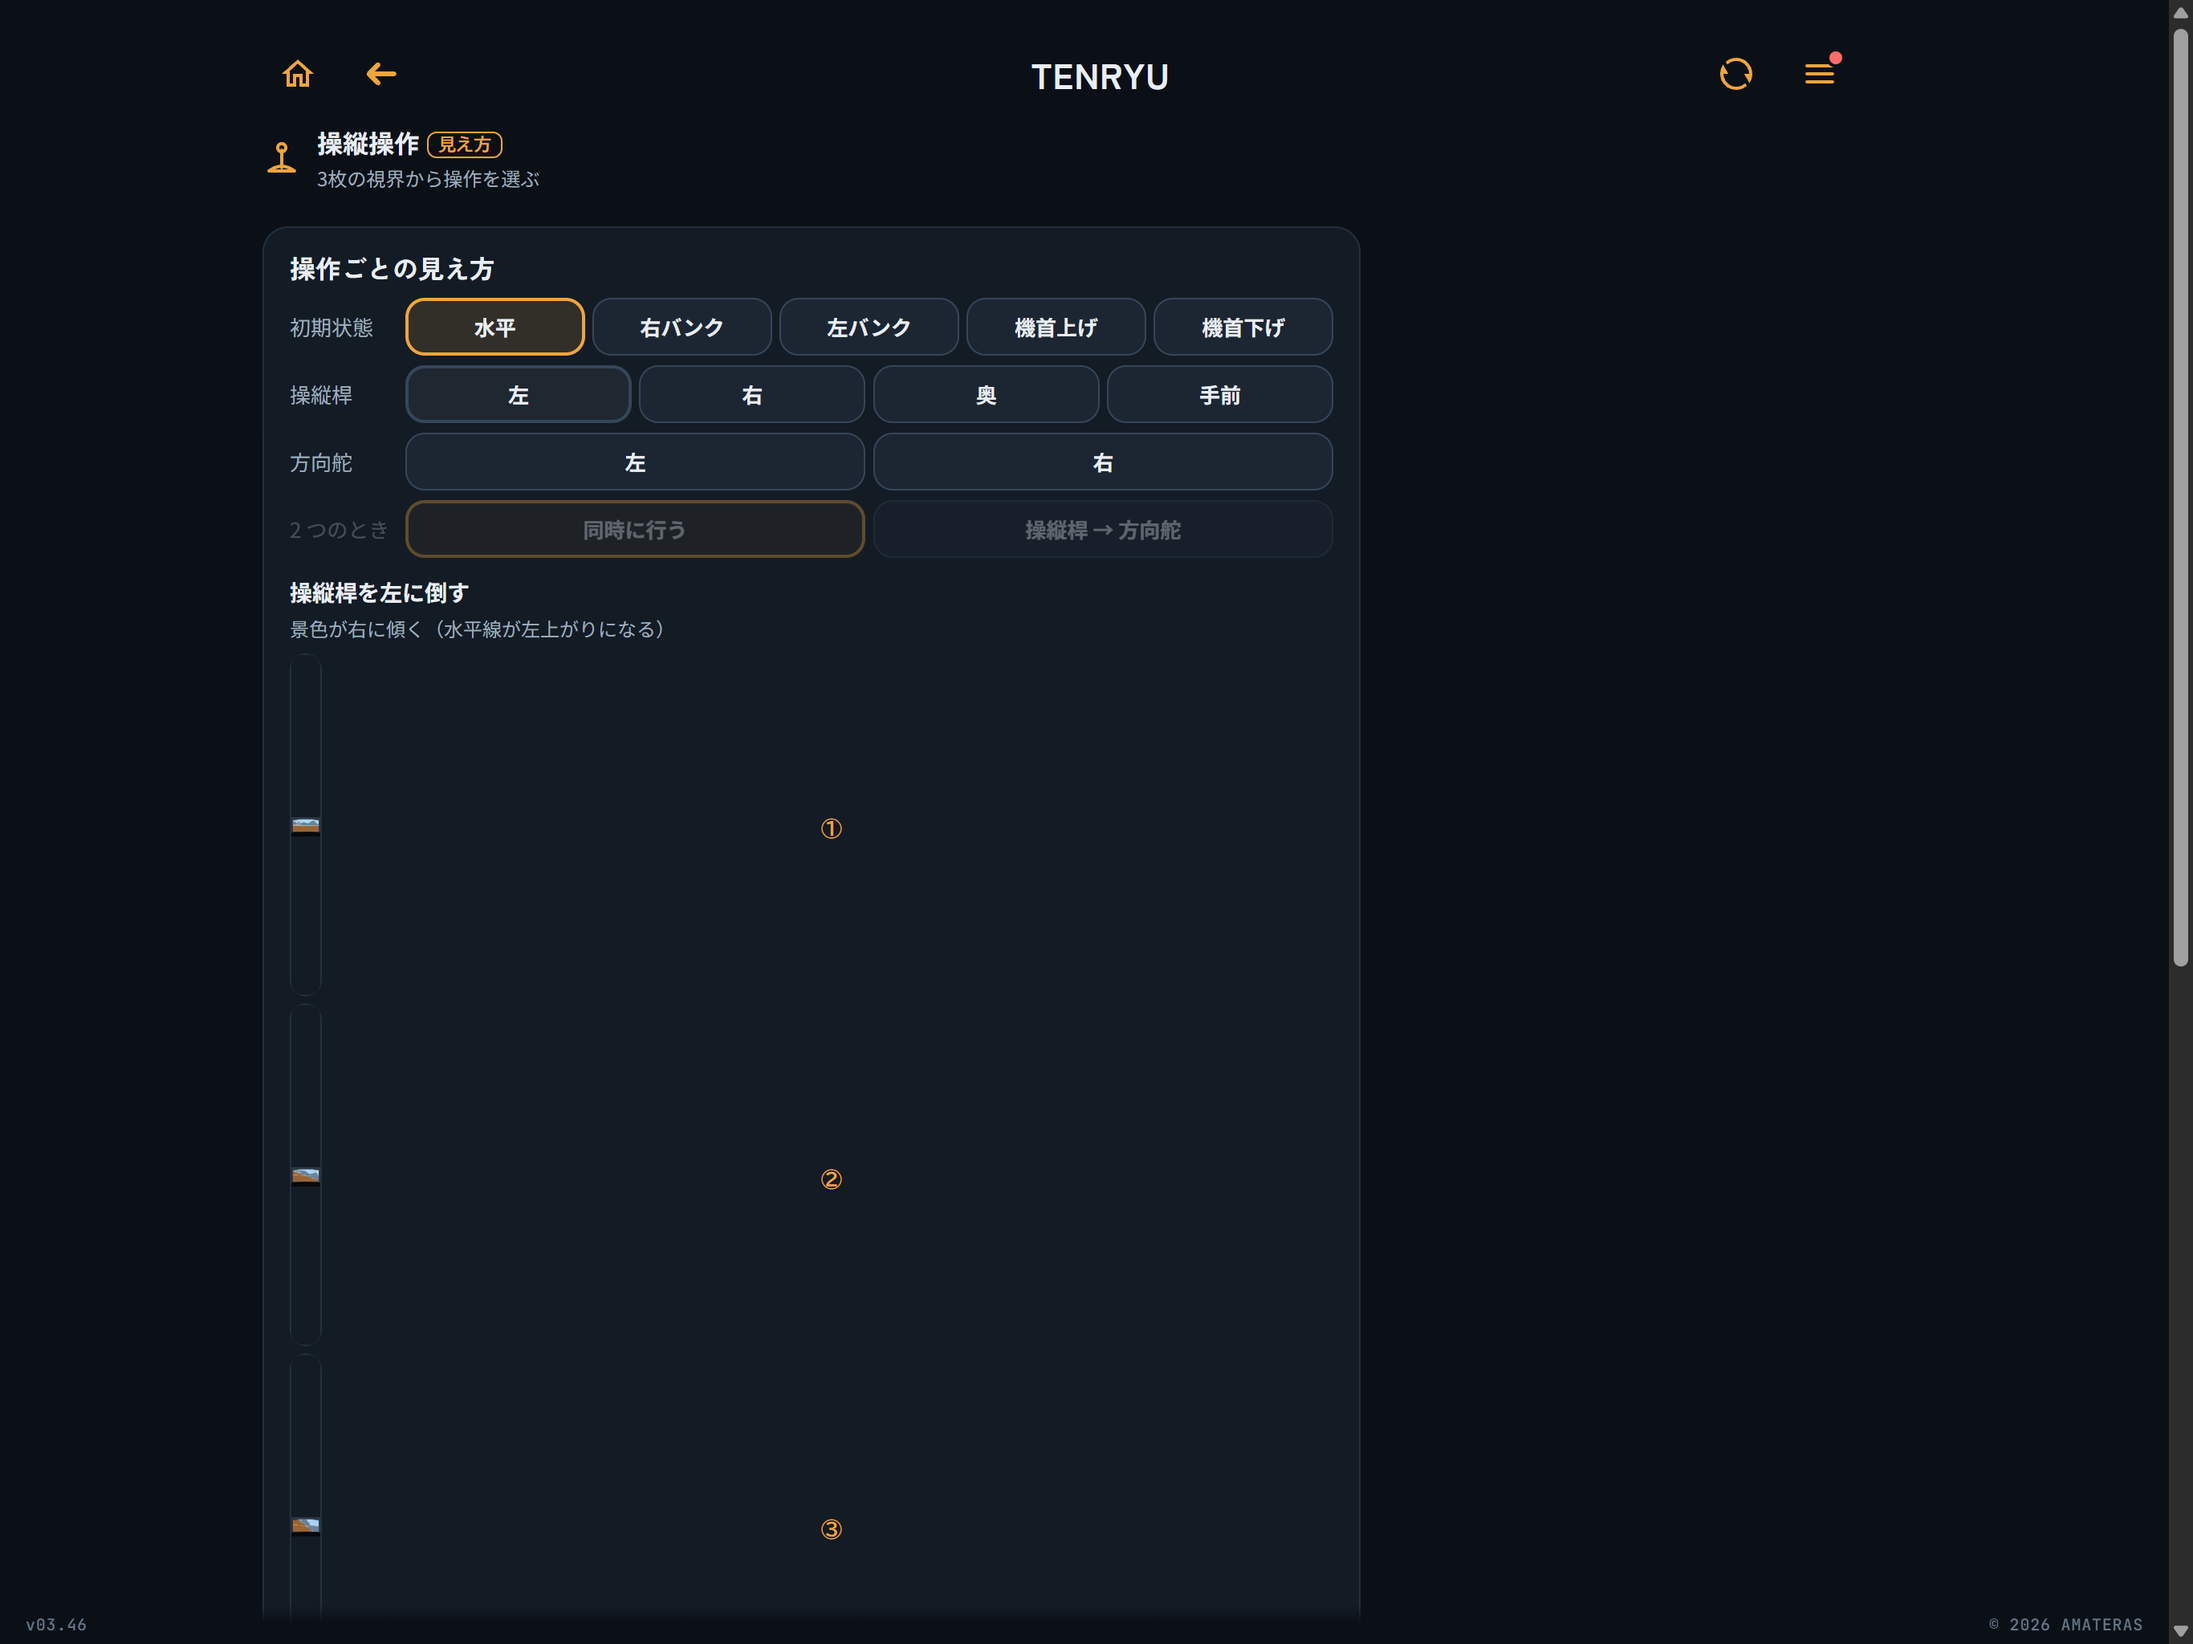
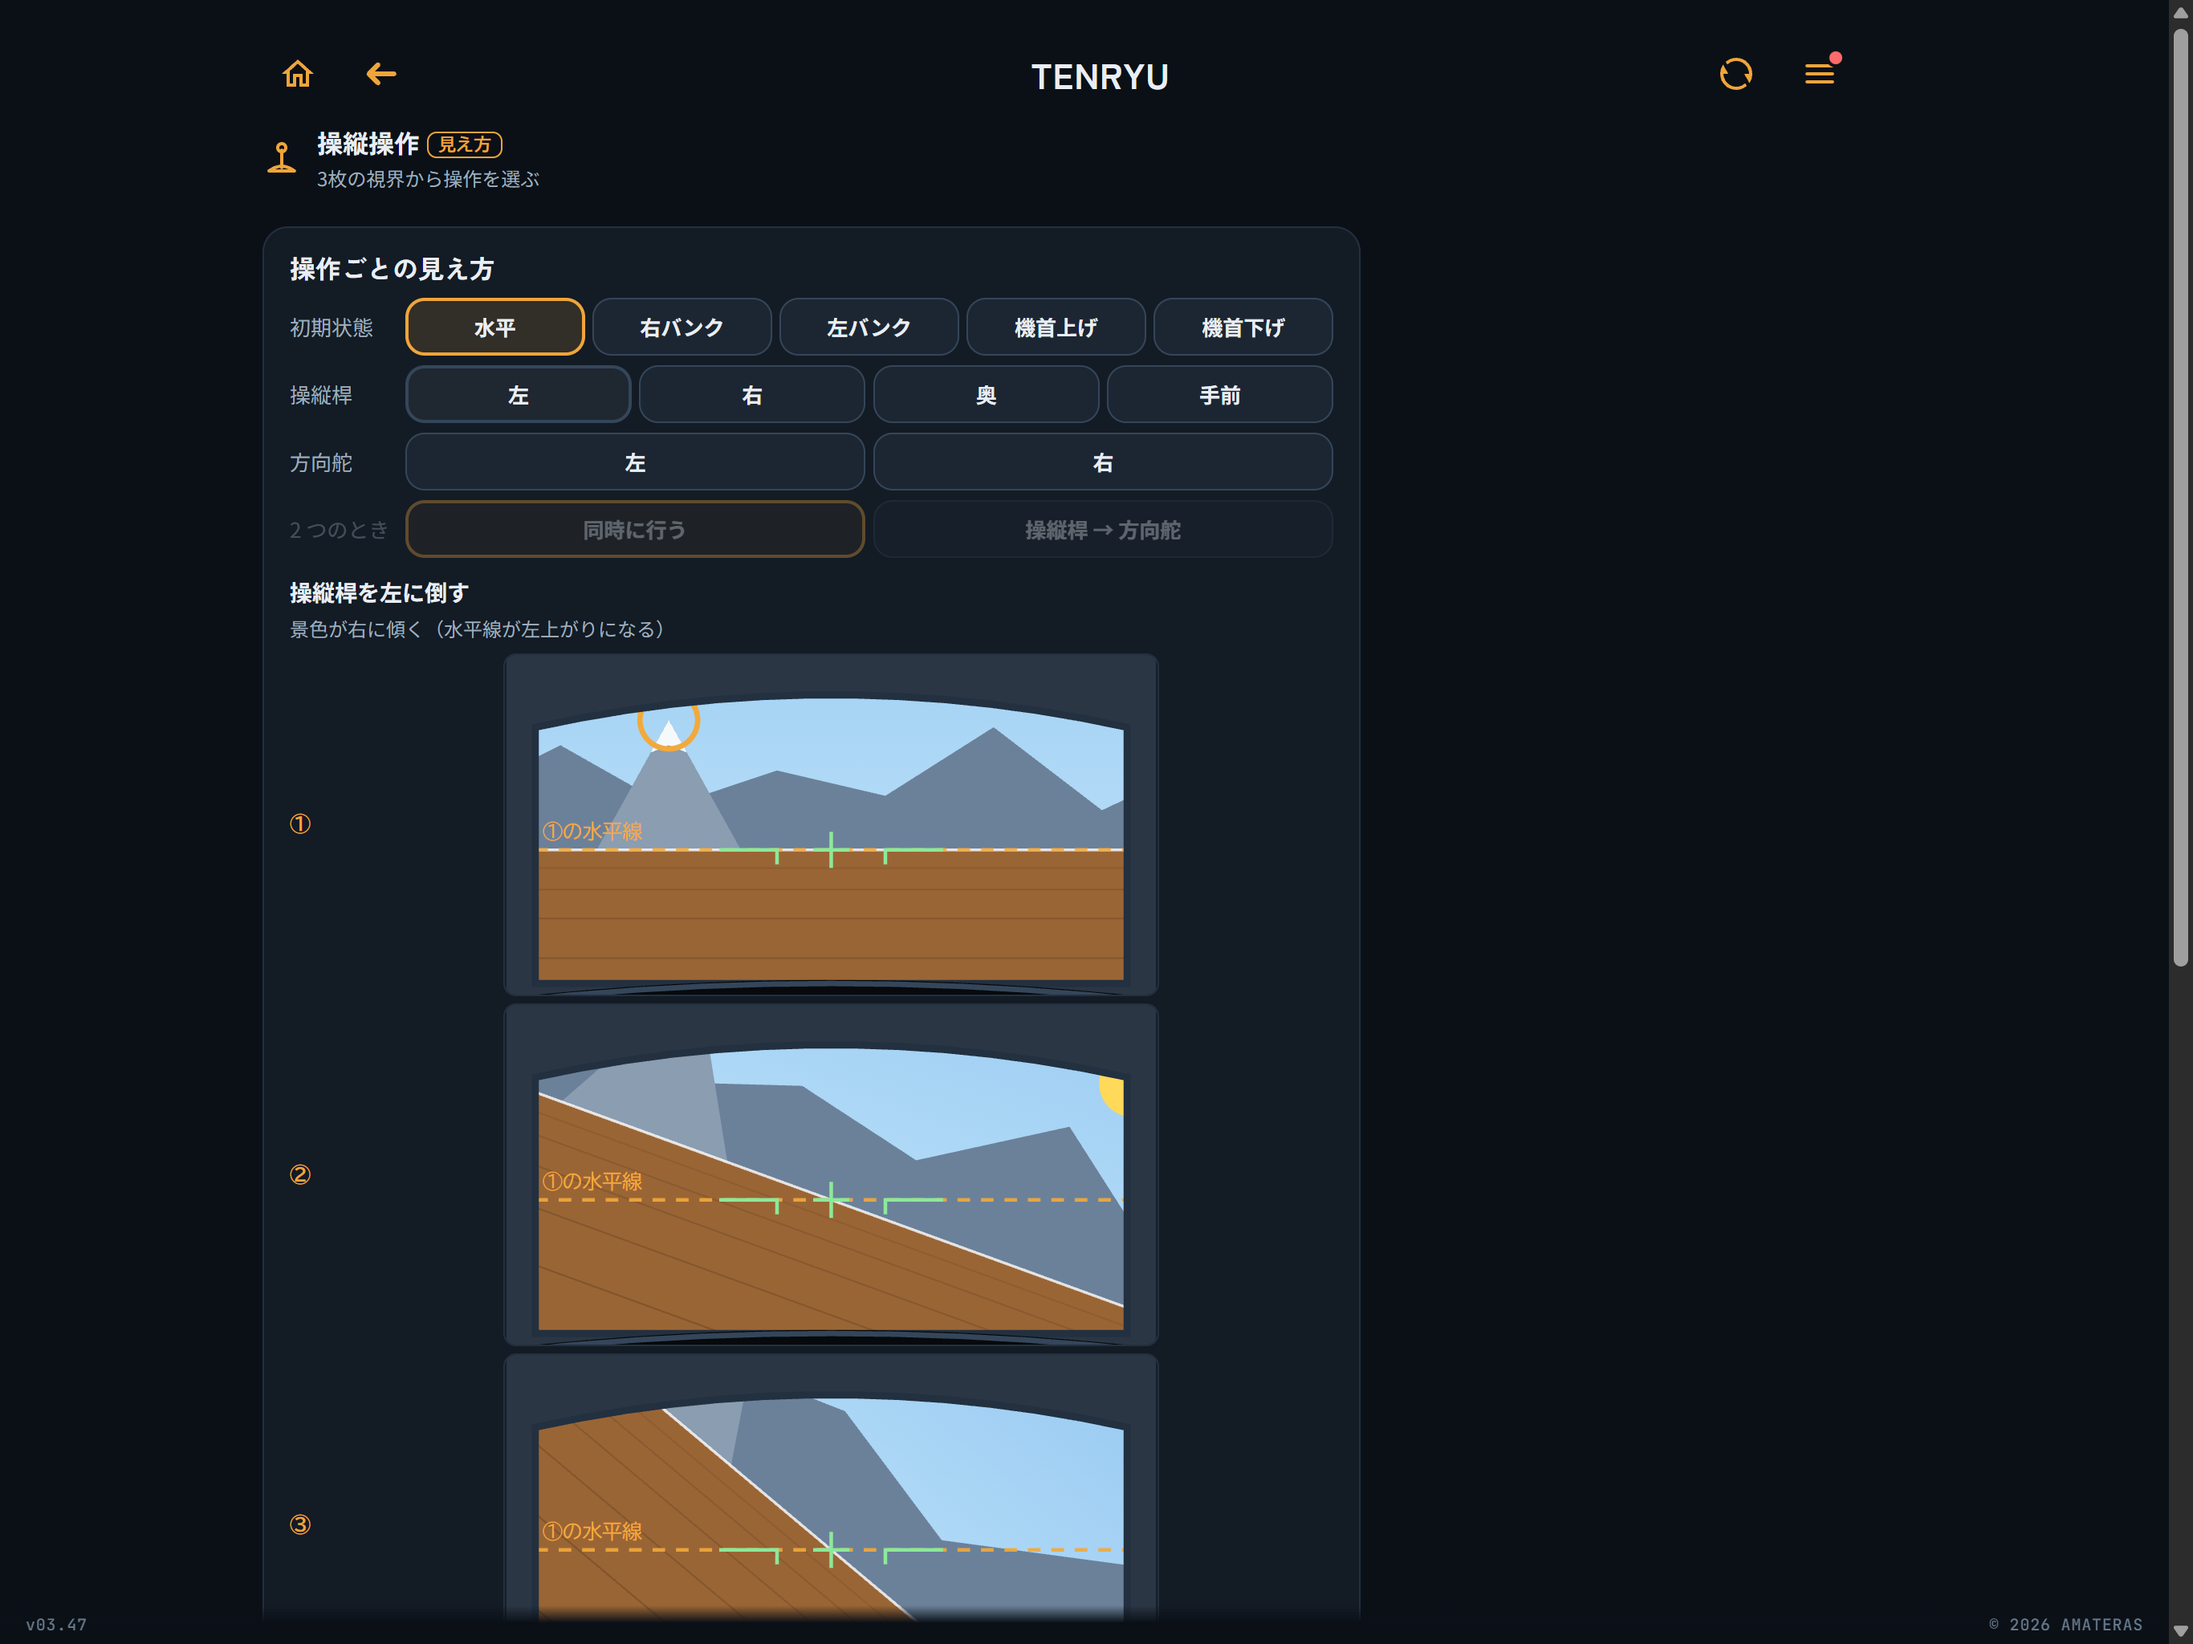
大きなタブレットで見え方の 3 枚が潰れるのを直す（v03.47）
64rem 以上で番号を絵の下に回す規則が見え方にも当たり、
並べ替えのせいで絵が 1.25rem の列に入って 20px になっていた。
iPad のスクリーンショット（3 枚目）も撮り直した。

diff --git a/index.html b/index.html
@@ -708,6 +708,9 @@ body:not([data-view="home"]) .back{display:inline-flex}
   .gallery .frame .v{height:calc((100vh - 24rem)/3);max-height:14rem}
   .frame{grid-template-columns:1fr}
   .frame .n{order:2;text-align:center;margin-top:.375rem;font-size:.8125rem}
+  /* 見え方は 1 列（番号は左、視界は右）。出題と同じ「番号を下」にすると、
+     並べ替えのせいで視界が 1.25rem の列に入って潰れる（大きいタブレットで起きる） */
+  .gallery .frame .n{order:0;text-align:left;margin-top:0}
   .segs{display:grid;grid-template-columns:1fr 1fr;gap:1.25rem}
   .seg{margin-top:1.25rem}
   .ops .ab{min-height:3.5rem}.ops .ab .t{font-size:.75rem}
@@ -972,7 +975,7 @@ const DEMO_ON=false;
 /* ネイティブの包み（Capacitor）で動いているか。アプリ内は常に全機能版で、サービスワーカーは使わない */
 const NATIVE=!!window.Capacitor||/^capacitor:|^ionic:/.test(location.protocol);
 /* 版の表記: 大きい更新で v02 → v03 と上げ、小さい更新は v02.01 → v02.02 と小数側を上げる。sw.js の CACHE と必ずそろえる */
-const APP_VER='v03.46';
+const APP_VER='v03.47';
 let edition=(DEMO_ON&&!NATIVE)?store.get('edition','demo'):'full';
 const isFull=()=>edition==='full';
 const qMax=()=>{const c=MS().qCount;return isFull()?c:(c>0?Math.min(c,DEMO.qCount):DEMO.qCount)};   // 体験版は 10 問まで

diff --git a/sw.js b/sw.js
@@ -1,5 +1,5 @@
 /* オフライン対応サービスワーカー。ファイルを更新したら CACHE の版数を上げる。 */
-const CACHE = 'aat-v03.46';
+const CACHE = 'aat-v03.47';
 /* 大きくて変わらないもの（3D モデル）は、版を上げても消さない入れ物に置く。
    ここを消してしまうと、更新のたびに 5.6 MB を取り直すことになり、オフラインで 3D が動かなくなる */
 const BIG = 'aat-big-v1';

diff --git a/dev/docs/internal-design.md b/dev/docs/internal-design.md
@@ -935,3 +935,11 @@ App Store のスクリーンショットは実機ではなく、ヘッドレス 
 3D モデルは仮想時間の下では読み込みが止まりやすいので、ハーネス側で先に取得しておく。
 
 演技の 2 枚は、画面をそのまま撮るのではなく `snapshot()` の出力そのものを使う（`shots/shotpure.html`）。`snapshot()` は `renderer.render(world, cam)` を撮り直して canvas を PNG にするだけなので、計器・課目の名前と説明・視点の切り替え・戻るボタン・HUD（いずれも DOM）も、操縦桿の重ね描き（別のシーン `overlay`）も入らない。写真は景色だけになる。
+
+## 大きなタブレットで「見え方」の 3 枚が潰れる（2026-09-04、v03.47）
+
+画面幅 64rem 以上（12.9 インチ iPad の横画面など）で、見え方の 3 枚が幅 20 px に潰れていた。
+
+出題画面では 3 枚を横に並べ、番号を絵の下に置くため `@media (min-width:64rem)` で `.frame .n{order:2}` を当てている。見え方は 1 列（番号は左、絵は右）のままなので、`order` で番号が後ろに回ると、自動配置で**絵のほうが 1.25rem の列に入る**。絵の入れ物が 20 px になり、中の SVG も 20 px になっていた。
+
+`.gallery .frame .n{order:0}` を足して、見え方だけ並びを元に戻した。スマホでは 64rem 未満なので、この規則自体が効いておらず、症状も出ていなかった。
